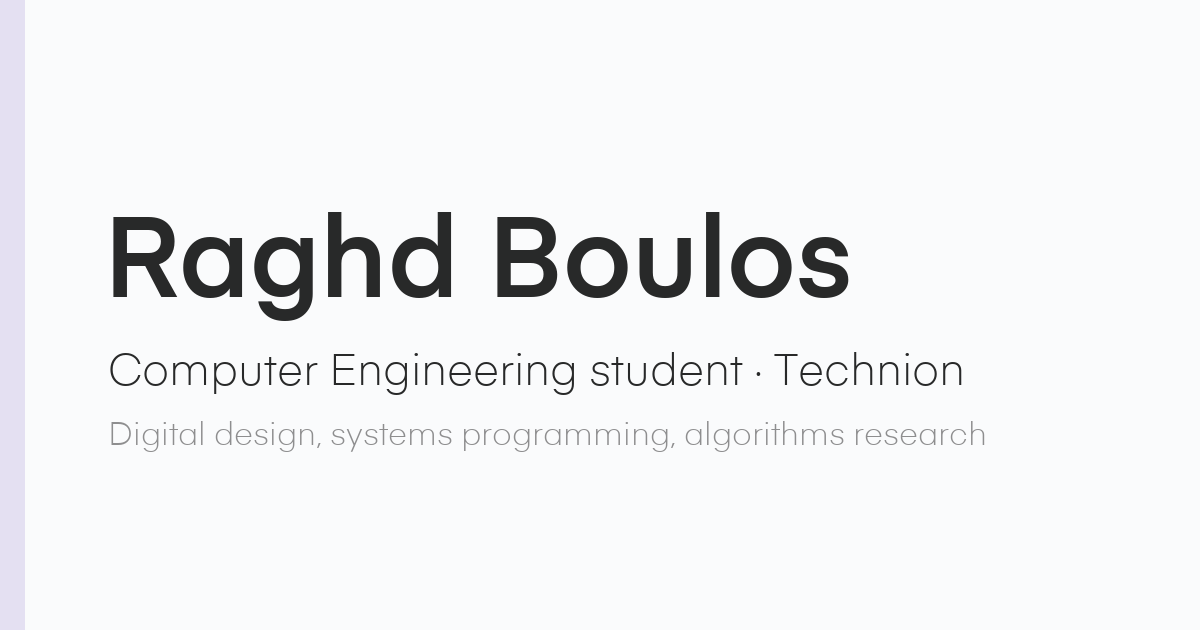
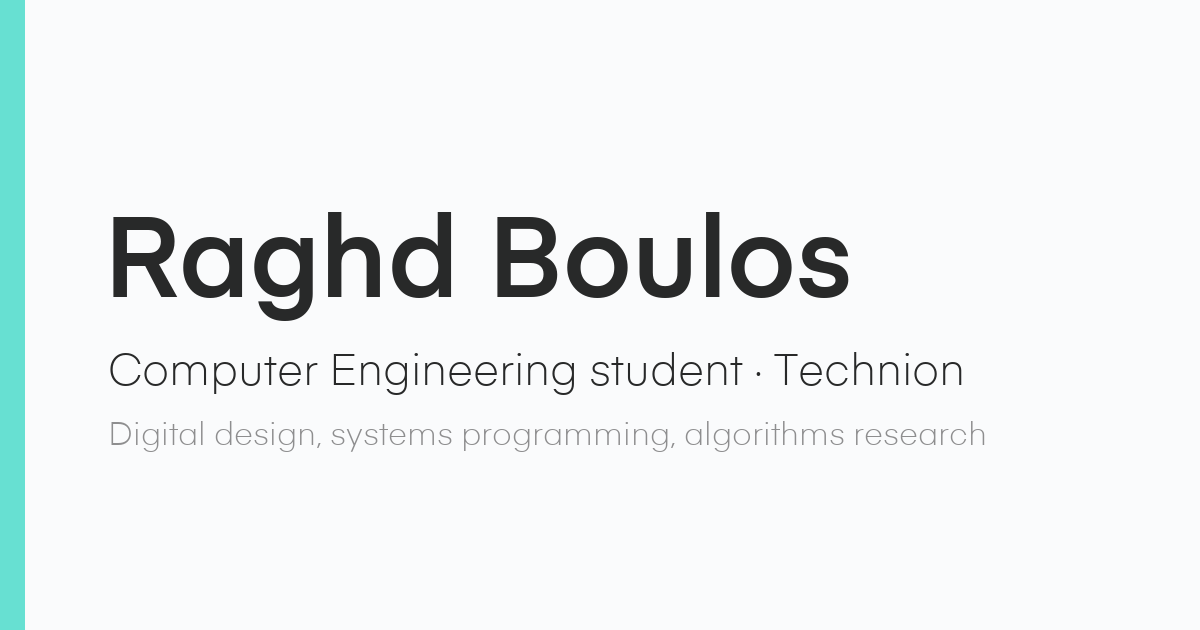
Accent colour: turquoise

Changed region(s): [[0.0, 0.0, 0.0308, 1.0]]

diff --git a/docs/index.html b/docs/index.html
@@ -2,7 +2,7 @@
 @font-face{font-family:'Eina 03';font-weight:400;font-style:normal;font-display:swap;src:url(assets/64c60ace8019735023b14c10_Eina03-Regular.ttf) format('truetype')}
 @font-face{font-family:'Eina 03';font-weight:600;font-style:normal;font-display:swap;src:url(assets/64c60acf16fce3dec266fe1e_Eina03-SemiBold.ttf) format('truetype')}
 @font-face{font-family:'Eina 03';font-weight:700;font-style:normal;font-display:swap;src:url(assets/64c60ace339c9f8e9884ba1b_Eina03-Bold.ttf) format('truetype')}
-:root{--ink:#282929;--paper:#fafbfc;--muted:#6f7071;--line:#d6d7d8;--yellow:#e4e0f2}
+:root{--ink:#282929;--paper:#fafbfc;--muted:#6f7071;--line:#d6d7d8;--yellow:#67e0d2}
 *{box-sizing:border-box}html{scroll-behavior:smooth}body{margin:0;background:var(--paper);color:var(--ink);font-family:'Eina 03',sans-serif;font-weight:300}
 [hidden]{display:none!important}a{color:inherit}a:focus-visible{outline:2px solid var(--ink);outline-offset:6px}button{font:inherit}::selection{background:var(--yellow);color:#282929}
 .preview-note{position:fixed;right:28px;top:18px;z-index:5;font-size:11px;letter-spacing:.09em;text-transform:uppercase;color:#737475;background:var(--paper);padding:7px 10px;border:1px solid var(--line)}
@@ -161,9 +161,9 @@ html.dark .music-artists figcaption h3{color:#fff}
 <section id="about-projects"><h2>Projects</h2>
 <article class="project"><div class="project-head"><h3>Flying Cat on FPGA</h3><p class="caption">Digital design · SystemVerilog RTL · DE10-Lite</p></div><div class="project-row"><div class="project-media game-thumb"><img src="media/flying-cat.png" width="640" height="480" alt="Flying Cat game start screen, showing the pixel-art cat, rainbow trail, obstacles, and score." loading="lazy"></div><p class="small">A Flappy Bird-inspired game written as SystemVerilog RTL for the DE10-Lite, with VGA graphics, animated sprites, synchronized audio, randomized obstacles, and adaptive difficulty.</p></div></article>
 <div class="content-divider"></div>
-<article class="project"><div class="project-head"><h3>Multithreaded web server</h3><p class="caption">Systems programming · C, pthreads · Linux</p></div><div class="project-row"><div class="project-media"><svg viewBox="60 -63 880 587" role="img" aria-label="Abstract illustration: queued requests fan out to three worker threads running in parallel." xmlns="http://www.w3.org/2000/svg"><rect x="-500" y="-500" width="2000" height="1500" fill="#eceae3"/><rect x="110" y="208" width="44" height="44" rx="11" fill="#282929"/><rect x="168" y="208" width="44" height="44" rx="11" fill="#282929"/><rect x="226" y="208" width="44" height="44" rx="11" fill="#282929"/><rect x="285" y="209" width="42" height="42" rx="10" fill="none" stroke="#aaa696" stroke-width="2" stroke-dasharray="5 6"/><g fill="none" stroke="#aaa696" stroke-width="2" stroke-linecap="round"><path d="M352 230H400C460 230 440 130 500 130"/><path d="M352 230H500"/><path d="M352 230H400C460 230 440 330 500 330"/></g><rect x="520" y="108" width="370" height="44" rx="22" fill="#dcd9cd"/><rect x="520" y="108" width="300" height="44" rx="22" fill="#282929"/><rect x="520" y="208" width="370" height="44" rx="22" fill="#dcd9cd"/><rect x="520" y="208" width="190" height="44" rx="22" fill="#b0a5e0"/><rect x="520" y="308" width="370" height="44" rx="22" fill="#dcd9cd"/><rect x="520" y="308" width="110" height="44" rx="22" fill="#282929"/></svg></div><p class="small">A single-threaded C web server rebuilt as a concurrent one: a pthreads worker pool fed by a bounded FIFO request queue, with writer-priority synchronized logging.</p></div></article>
+<article class="project"><div class="project-head"><h3>Multithreaded web server</h3><p class="caption">Systems programming · C, pthreads · Linux</p></div><div class="project-row"><div class="project-media"><svg viewBox="60 -63 880 587" role="img" aria-label="Abstract illustration: queued requests fan out to three worker threads running in parallel." xmlns="http://www.w3.org/2000/svg"><rect x="-500" y="-500" width="2000" height="1500" fill="#eceae3"/><rect x="110" y="208" width="44" height="44" rx="11" fill="#282929"/><rect x="168" y="208" width="44" height="44" rx="11" fill="#282929"/><rect x="226" y="208" width="44" height="44" rx="11" fill="#282929"/><rect x="285" y="209" width="42" height="42" rx="10" fill="none" stroke="#aaa696" stroke-width="2" stroke-dasharray="5 6"/><g fill="none" stroke="#aaa696" stroke-width="2" stroke-linecap="round"><path d="M352 230H400C460 230 440 130 500 130"/><path d="M352 230H500"/><path d="M352 230H400C460 230 440 330 500 330"/></g><rect x="520" y="108" width="370" height="44" rx="22" fill="#dcd9cd"/><rect x="520" y="108" width="300" height="44" rx="22" fill="#282929"/><rect x="520" y="208" width="370" height="44" rx="22" fill="#dcd9cd"/><rect x="520" y="208" width="190" height="44" rx="22" fill="#67e0d2"/><rect x="520" y="308" width="370" height="44" rx="22" fill="#dcd9cd"/><rect x="520" y="308" width="110" height="44" rx="22" fill="#282929"/></svg></div><p class="small">A single-threaded C web server rebuilt as a concurrent one: a pthreads worker pool fed by a bounded FIFO request queue, with writer-priority synchronized logging.</p></div></article>
 <div class="content-divider"></div>
-<article class="project"><div class="project-head"><h3>Randomized group testing</h3><p class="caption">Algorithms research · Published at SWAT 2020</p></div><div class="project-row"><div class="project-media"><svg viewBox="170 10 660 440" role="img" aria-label="Abstract illustration: a grid of items with a few defective ones; highlighted groups mark pooled tests that contain a defective item." xmlns="http://www.w3.org/2000/svg"><rect x="-500" y="-500" width="2000" height="1500" fill="#e9efea"/><rect x="380" y="142" width="240" height="48" rx="24" fill="#b0a5e0"/><rect x="252" y="206" width="48" height="176" rx="24" fill="#b0a5e0"/><rect x="572" y="206" width="176" height="48" rx="24" fill="#b0a5e0"/><rect x="636" y="270" width="112" height="112" rx="26" fill="none" stroke="#9db0a2" stroke-width="2"/><rect x="316" y="78" width="176" height="48" rx="24" fill="none" stroke="#9db0a2" stroke-width="2"/><circle cx="276" cy="102" r="13" fill="#c3cfc6"/><circle cx="340" cy="102" r="13" fill="#c3cfc6"/><circle cx="404" cy="102" r="13" fill="#c3cfc6"/><circle cx="468" cy="102" r="13" fill="#c3cfc6"/><circle cx="532" cy="102" r="13" fill="#c3cfc6"/><circle cx="596" cy="102" r="13" fill="#c3cfc6"/><circle cx="660" cy="102" r="13" fill="#c3cfc6"/><circle cx="724" cy="102" r="13" fill="#c3cfc6"/><circle cx="276" cy="166" r="13" fill="#c3cfc6"/><circle cx="340" cy="166" r="13" fill="#c3cfc6"/><circle cx="404" cy="166" r="13" fill="#c3cfc6"/><circle cx="468" cy="166" r="13" fill="#282929"/><circle cx="532" cy="166" r="13" fill="#c3cfc6"/><circle cx="596" cy="166" r="13" fill="#c3cfc6"/><circle cx="660" cy="166" r="13" fill="#c3cfc6"/><circle cx="724" cy="166" r="13" fill="#c3cfc6"/><circle cx="276" cy="230" r="13" fill="#c3cfc6"/><circle cx="340" cy="230" r="13" fill="#c3cfc6"/><circle cx="404" cy="230" r="13" fill="#c3cfc6"/><circle cx="468" cy="230" r="13" fill="#c3cfc6"/><circle cx="532" cy="230" r="13" fill="#c3cfc6"/><circle cx="596" cy="230" r="13" fill="#c3cfc6"/><circle cx="660" cy="230" r="13" fill="#282929"/><circle cx="724" cy="230" r="13" fill="#c3cfc6"/><circle cx="276" cy="294" r="13" fill="#282929"/><circle cx="340" cy="294" r="13" fill="#c3cfc6"/><circle cx="404" cy="294" r="13" fill="#c3cfc6"/><circle cx="468" cy="294" r="13" fill="#c3cfc6"/><circle cx="532" cy="294" r="13" fill="#c3cfc6"/><circle cx="596" cy="294" r="13" fill="#c3cfc6"/><circle cx="660" cy="294" r="13" fill="#c3cfc6"/><circle cx="724" cy="294" r="13" fill="#c3cfc6"/><circle cx="276" cy="358" r="13" fill="#c3cfc6"/><circle cx="340" cy="358" r="13" fill="#c3cfc6"/><circle cx="404" cy="358" r="13" fill="#c3cfc6"/><circle cx="468" cy="358" r="13" fill="#c3cfc6"/><circle cx="532" cy="358" r="13" fill="#c3cfc6"/><circle cx="596" cy="358" r="13" fill="#c3cfc6"/><circle cx="660" cy="358" r="13" fill="#c3cfc6"/><circle cx="724" cy="358" r="13" fill="#c3cfc6"/></svg></div><p class="small">Co-authored with Prof. Nader H. Bshouty: an adaptive randomized algorithm that determines the exact number of defective items, with a test count proven optimal up to small additive terms. <a class="link" href="https://doi.org/10.4230/LIPIcs.SWAT.2020.18" target="_blank" rel="noopener noreferrer">Read the paper</a></p></div></article>
+<article class="project"><div class="project-head"><h3>Randomized group testing</h3><p class="caption">Algorithms research · Published at SWAT 2020</p></div><div class="project-row"><div class="project-media"><svg viewBox="170 10 660 440" role="img" aria-label="Abstract illustration: a grid of items with a few defective ones; highlighted groups mark pooled tests that contain a defective item." xmlns="http://www.w3.org/2000/svg"><rect x="-500" y="-500" width="2000" height="1500" fill="#e9efea"/><rect x="380" y="142" width="240" height="48" rx="24" fill="#67e0d2"/><rect x="252" y="206" width="48" height="176" rx="24" fill="#67e0d2"/><rect x="572" y="206" width="176" height="48" rx="24" fill="#67e0d2"/><rect x="636" y="270" width="112" height="112" rx="26" fill="none" stroke="#9db0a2" stroke-width="2"/><rect x="316" y="78" width="176" height="48" rx="24" fill="none" stroke="#9db0a2" stroke-width="2"/><circle cx="276" cy="102" r="13" fill="#c3cfc6"/><circle cx="340" cy="102" r="13" fill="#c3cfc6"/><circle cx="404" cy="102" r="13" fill="#c3cfc6"/><circle cx="468" cy="102" r="13" fill="#c3cfc6"/><circle cx="532" cy="102" r="13" fill="#c3cfc6"/><circle cx="596" cy="102" r="13" fill="#c3cfc6"/><circle cx="660" cy="102" r="13" fill="#c3cfc6"/><circle cx="724" cy="102" r="13" fill="#c3cfc6"/><circle cx="276" cy="166" r="13" fill="#c3cfc6"/><circle cx="340" cy="166" r="13" fill="#c3cfc6"/><circle cx="404" cy="166" r="13" fill="#c3cfc6"/><circle cx="468" cy="166" r="13" fill="#282929"/><circle cx="532" cy="166" r="13" fill="#c3cfc6"/><circle cx="596" cy="166" r="13" fill="#c3cfc6"/><circle cx="660" cy="166" r="13" fill="#c3cfc6"/><circle cx="724" cy="166" r="13" fill="#c3cfc6"/><circle cx="276" cy="230" r="13" fill="#c3cfc6"/><circle cx="340" cy="230" r="13" fill="#c3cfc6"/><circle cx="404" cy="230" r="13" fill="#c3cfc6"/><circle cx="468" cy="230" r="13" fill="#c3cfc6"/><circle cx="532" cy="230" r="13" fill="#c3cfc6"/><circle cx="596" cy="230" r="13" fill="#c3cfc6"/><circle cx="660" cy="230" r="13" fill="#282929"/><circle cx="724" cy="230" r="13" fill="#c3cfc6"/><circle cx="276" cy="294" r="13" fill="#282929"/><circle cx="340" cy="294" r="13" fill="#c3cfc6"/><circle cx="404" cy="294" r="13" fill="#c3cfc6"/><circle cx="468" cy="294" r="13" fill="#c3cfc6"/><circle cx="532" cy="294" r="13" fill="#c3cfc6"/><circle cx="596" cy="294" r="13" fill="#c3cfc6"/><circle cx="660" cy="294" r="13" fill="#c3cfc6"/><circle cx="724" cy="294" r="13" fill="#c3cfc6"/><circle cx="276" cy="358" r="13" fill="#c3cfc6"/><circle cx="340" cy="358" r="13" fill="#c3cfc6"/><circle cx="404" cy="358" r="13" fill="#c3cfc6"/><circle cx="468" cy="358" r="13" fill="#c3cfc6"/><circle cx="532" cy="358" r="13" fill="#c3cfc6"/><circle cx="596" cy="358" r="13" fill="#c3cfc6"/><circle cx="660" cy="358" r="13" fill="#c3cfc6"/><circle cx="724" cy="358" r="13" fill="#c3cfc6"/></svg></div><p class="small">Co-authored with Prof. Nader H. Bshouty: an adaptive randomized algorithm that determines the exact number of defective items, with a test count proven optimal up to small additive terms. <a class="link" href="https://doi.org/10.4230/LIPIcs.SWAT.2020.18" target="_blank" rel="noopener noreferrer">Read the paper</a></p></div></article>
 <div class="content-divider"></div>
 <div class="more-work"><p class="small"><span class="secondary">Digital design in SystemVerilog</span><br>RTL for a 64-bit ALU and FSM-based control systems, designed and verified.</p><p class="small"><span class="secondary">Heart-rate estimation from video</span><br>A MATLAB signal-processing pipeline that extracts, filters, and analyzes a PPG signal.</p></div></section>
 
